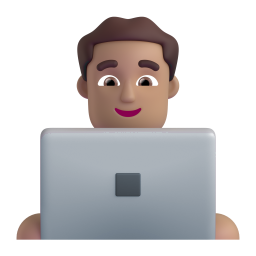
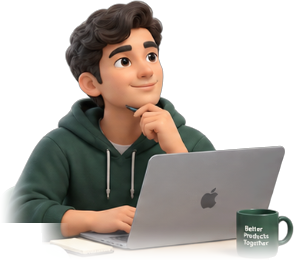
Landing hero: use the owner's PM character illustration
Swaps the Fluent Emoji placeholder for the character cut out of the
illustration kaushal supplied (hoodie, laptop, mug), with soft edges where
the original crop ended. The character is a little larger on desktop and
slightly smaller on phones so the mug clears the nearby card.

Claude-Session: https://claude.ai/code/session_011mtFc2qMcndtYviwNr9kNB

diff --git a/components/HeroSkillOrbit.tsx b/components/HeroSkillOrbit.tsx
@@ -36,12 +36,12 @@ export const HeroSkillOrbit: React.FC = () => (
     <div className="absolute inset-[22%] rounded-full bg-[radial-gradient(circle,rgba(16,185,129,0.20)_0%,rgba(20,184,166,0.08)_45%,transparent_70%)] pointer-events-none" />
 
     {/* Central 3D character */}
-    <div className="absolute left-1/2 top-1/2 w-[44%] -translate-x-1/2 -translate-y-1/2">
+    <div className="absolute left-1/2 top-[52%] w-[46%] sm:w-[50%] -translate-x-1/2 -translate-y-1/2">
       <img
         src="/landing/pm-character.png"
-        alt="A product manager working on a laptop"
-        width={256}
-        height={256}
+        alt="A product manager thinking at a laptop with a coffee mug"
+        width={294}
+        height={260}
         className="relative z-10 w-full h-auto drop-shadow-[0_18px_24px_rgba(4,60,44,0.22)] select-none"
         draggable={false}
       />

diff --git a/public/landing/CREDITS.md b/public/landing/CREDITS.md
@@ -1,7 +1,5 @@
 # Landing image credits
 
-- `pm-character.png`: "Man technologist" (medium skin tone, 3D) from
-  [Microsoft Fluent Emoji](https://github.com/microsoft/fluentui-emoji),
-  MIT License, Copyright (c) Microsoft Corporation. The laptop was recoloured
-  from lavender to silver. To use a different character, replace this file
-  with any transparent PNG (square works best) and keep the same name.
+- `pm-character.png`: the product manager character, cut out from an
+  illustration supplied by the site owner. To use a different character,
+  replace this file with any transparent PNG and keep the same name.
